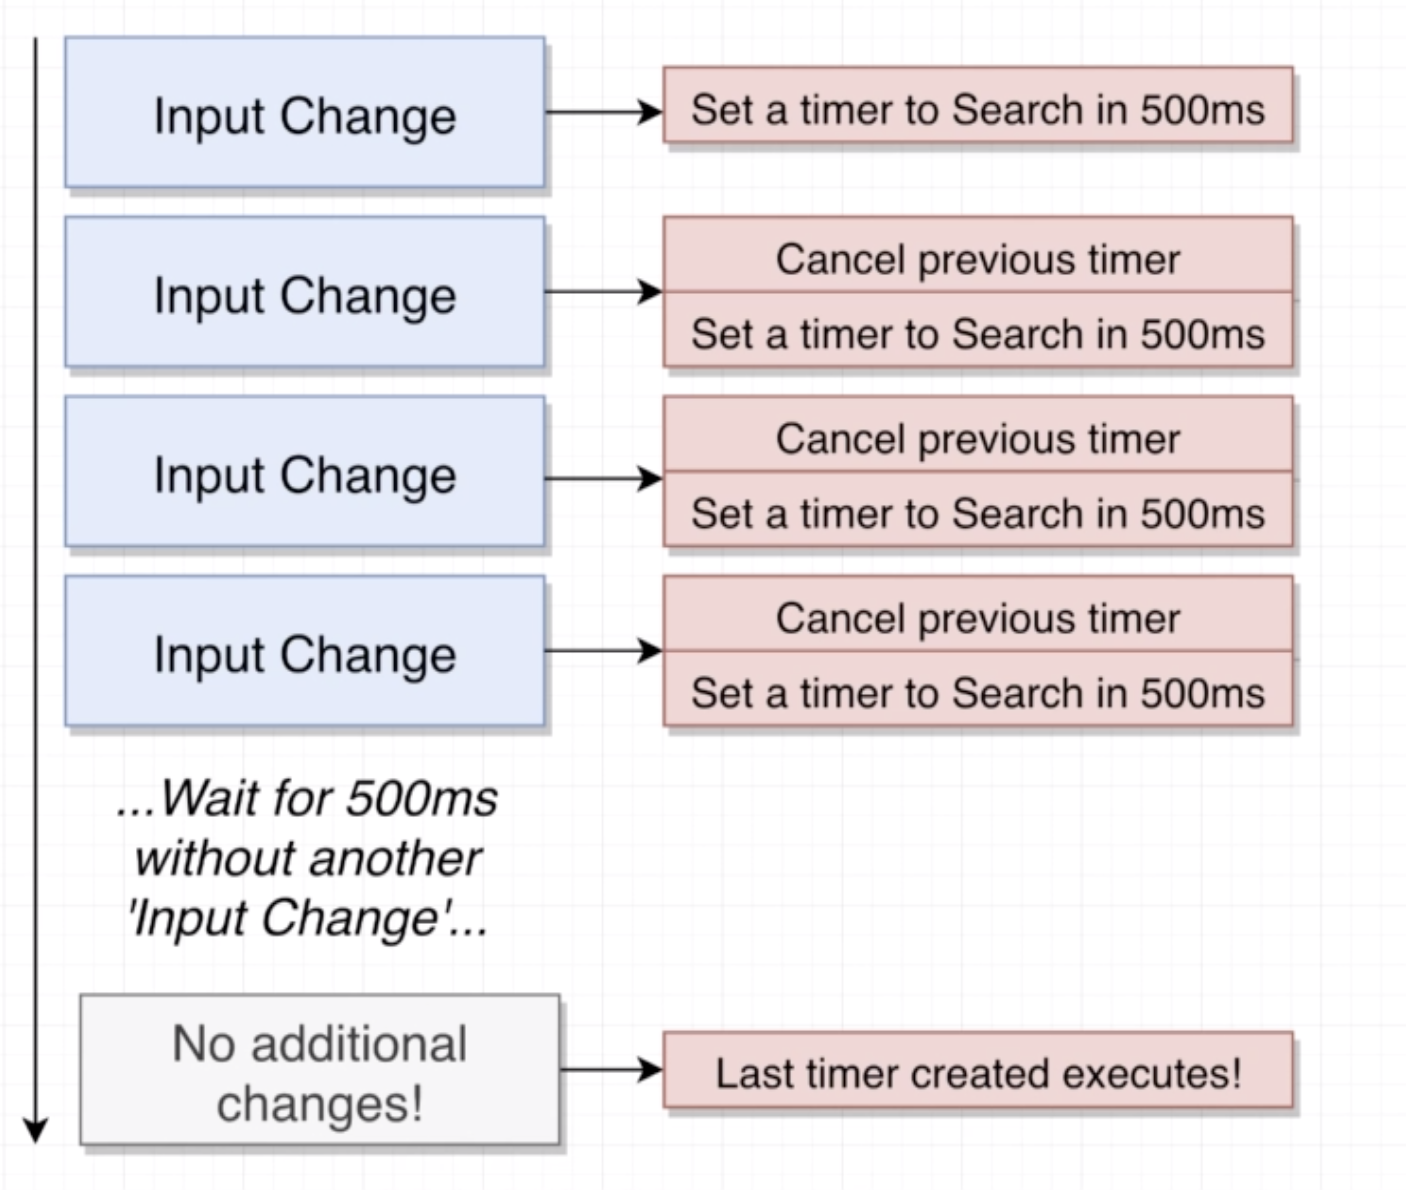
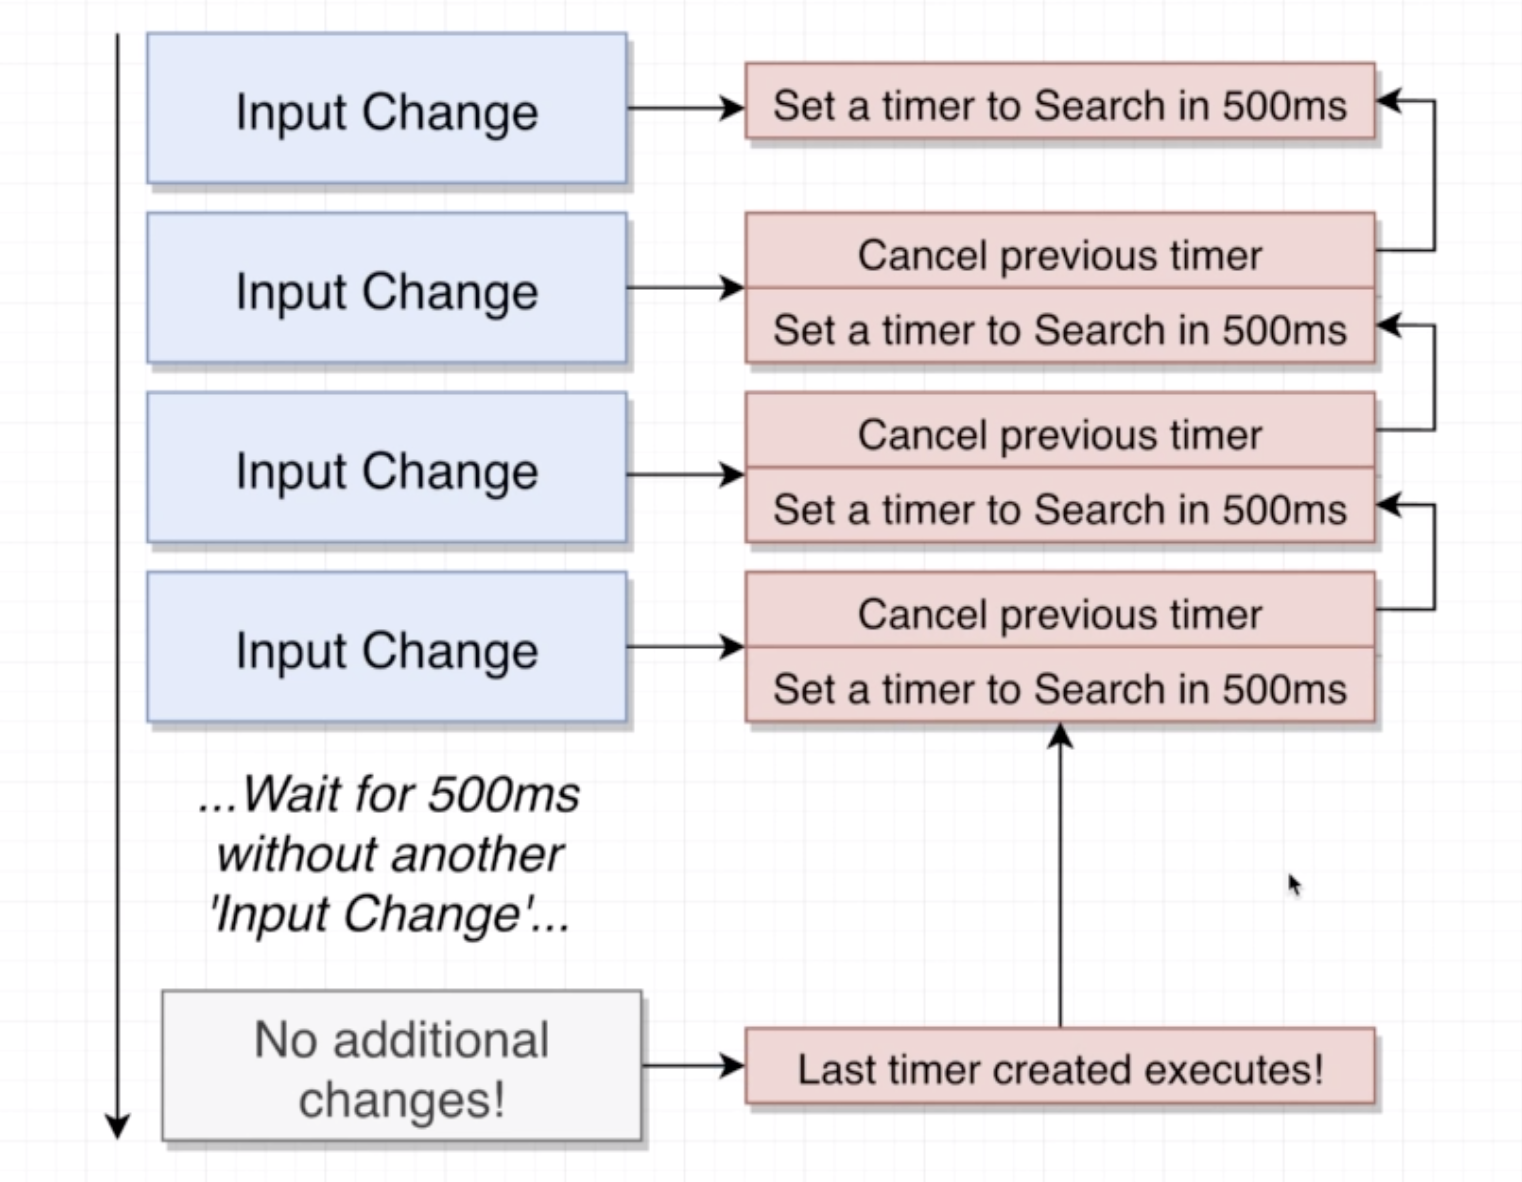
Update note 0717

Changed region(s): [[0.0, 0.0, 0.9481, 0.9746], [0.8257, 0.731, 0.8563, 0.7614]]

diff --git a/React-Redux/200717-Understanding Hooks in React.md b/React-Redux/200717-Understanding Hooks in React.md
@@ -175,8 +175,14 @@ The next problem that we're going to solve is making sure that we do not do an A
 
 The user keeps on changing that text input. And every single time they initiate a change to it, we are immediately doing a search.
 
-![my-img](img/200717-8.png)
+![my-img](img/200717-7.png)
 
 We want to allow a user to type inside that input as much as they please. whenever they type inside there, we are not going to immediately do any kind of search. Instead, we're going to somehow wait for about five hundred milliseconds for the user to not do any additional input changes.
 
 So in other words, if they type a whole bunch and then stop for about five hundred milliseconds, then we will go ahead and do the actual search.
+
+![my-img](img/200717-8.png)
+
+Whenever a user first types inside that input, we are going to set up a timer using the set timeout function that is built into JavaScript. In that set timeout function, we are going to say in 500 ms, go and run the search function with whatever the current term is. That's going to occur at the very first key press.
+
+If the user then immediately presses another character, we are then going to cancel the previous timer. We just line up that operation to do a search in five hundred milliseconds, but the user just pressed a character again. So let's go back and cancel that last search timer and set up a new timer to do a search in 500ms. And as you can see, that entire process is going repeat over and over again until the user goes for 500 milliseconds without typing anything in. And at that point in time, we will execute the last set timeout that was created.

diff --git a/React-Redux/200719-Understanding Hooks in React.md b/React-Redux/200719-Understanding Hooks in React.md
@@ -1,0 +1,1 @@
+# 20200719 Understanding Hooks in React
